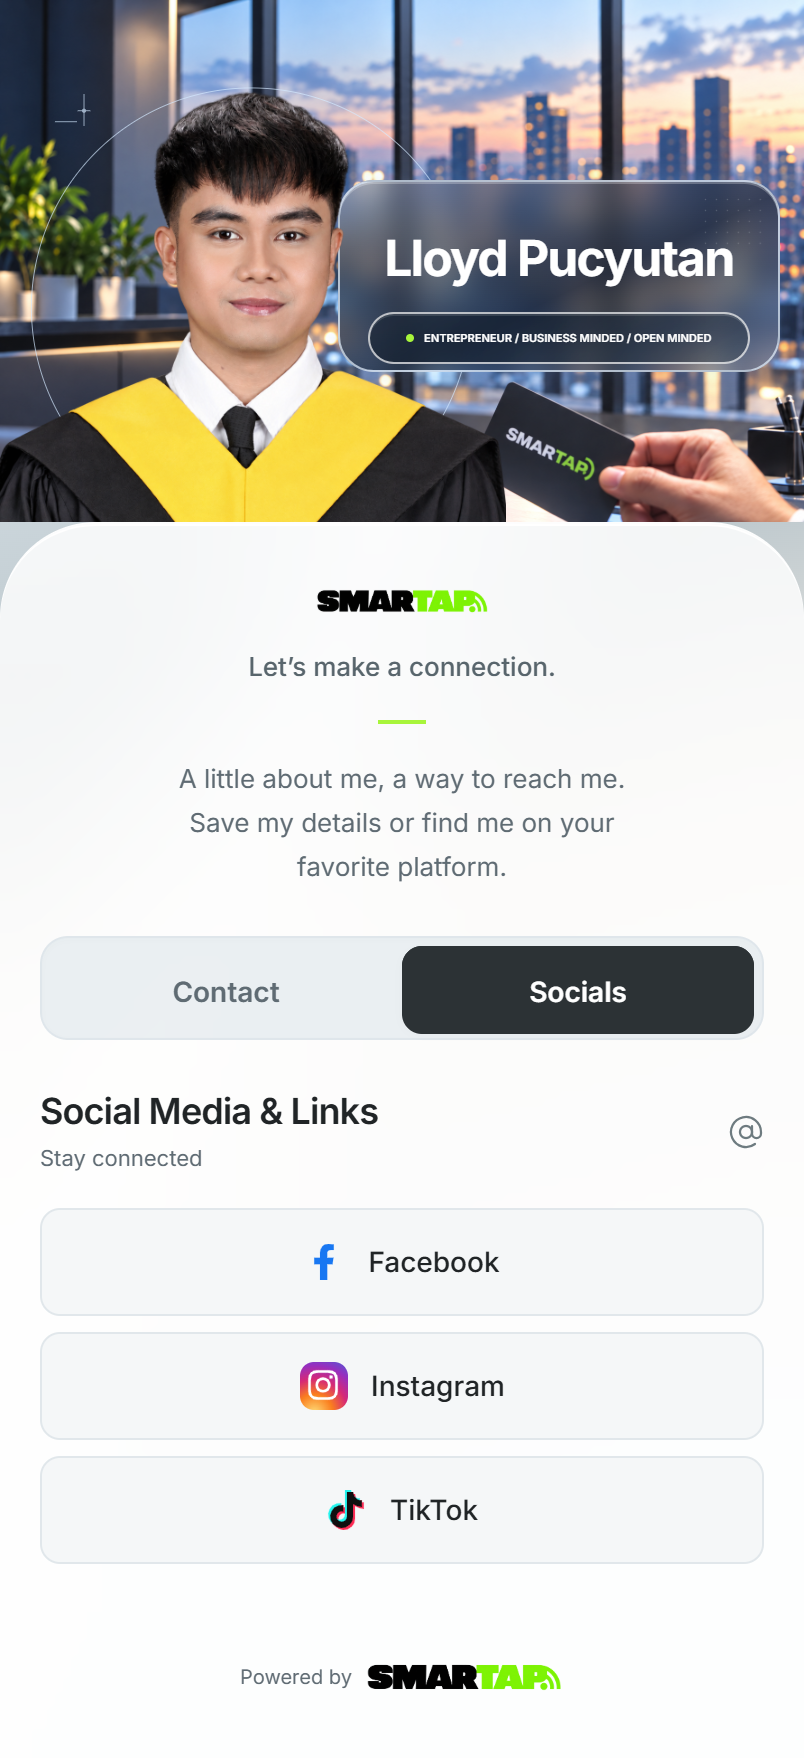
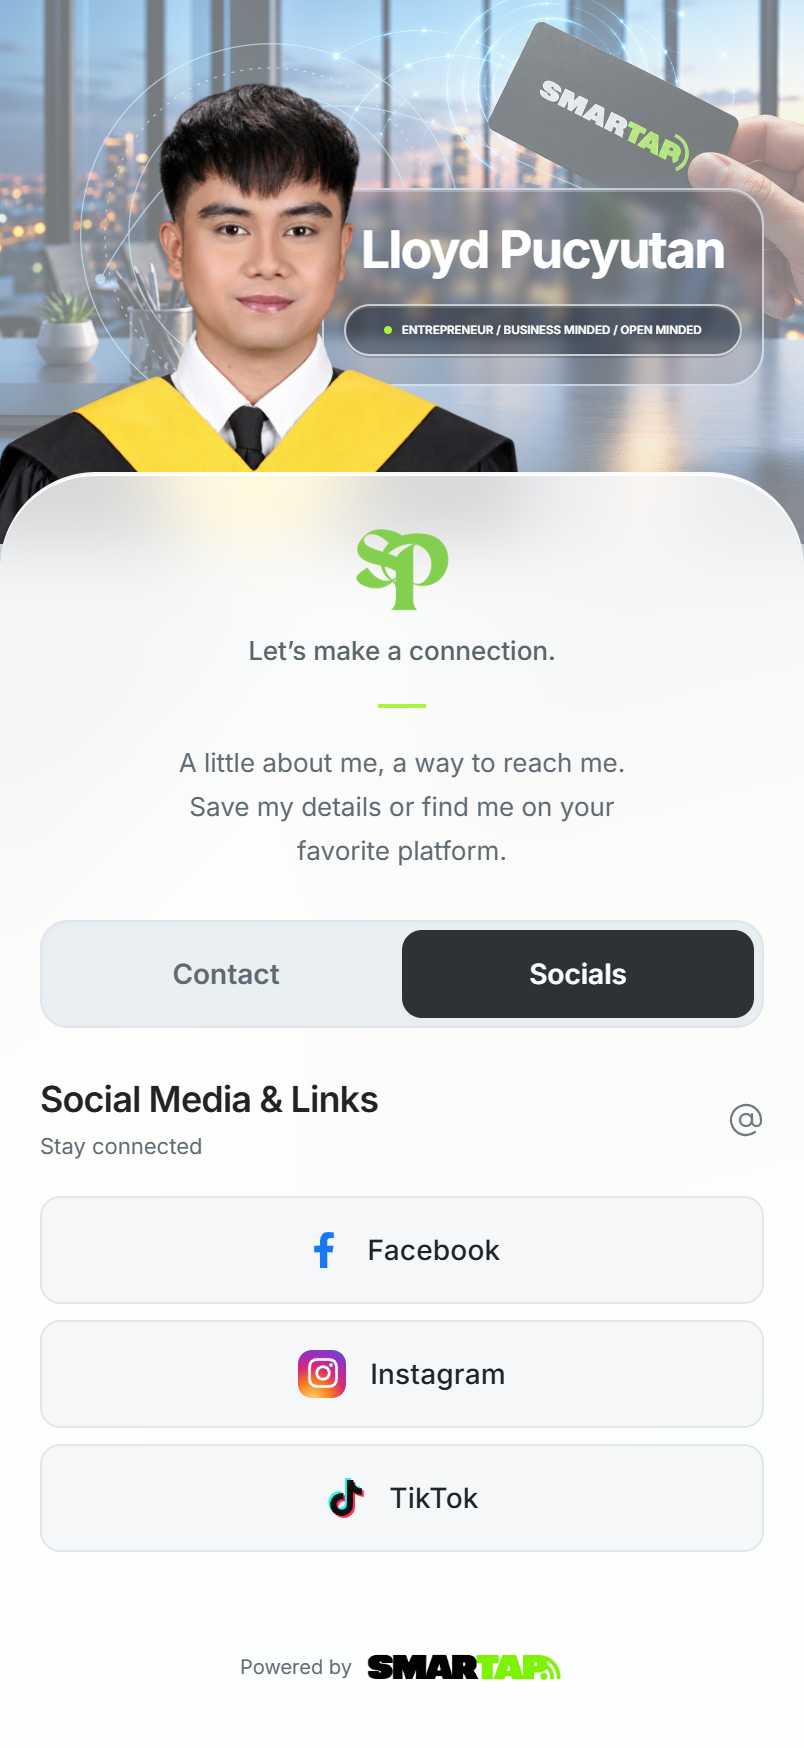
.

diff --git a/src/styles/global.css b/src/styles/global.css
@@ -1,5 +1,5 @@
-@import url('https://fonts.googleapis.com/css2?family=Inter:wght@400;500;600;700;800&display=swap');
-:root { font-family: Inter,system-ui,-apple-system,BlinkMacSystemFont,'Segoe UI',sans-serif; font-synthesis: none; color: #202426; background: #f5f7f8; --green: #282e31; --lime: #a8f53b; --mint: #e5f5cd; --muted: #5f6b73; --border: #e1e7eb; --glass: rgba(255,255,255,.82); }
+@import url('https://fonts.googleapis.com/css2?family=Inter:wght@400;500;600;700&display=swap');
+:root { font-family: Inter,system-ui,-apple-system,BlinkMacSystemFont,'Segoe UI',sans-serif; font-synthesis: none; color: #202426; background: #f5f7f8; --green: #282e31; --lime: #a8f53b; --muted: #5f6b73; --border: #e1e7eb; --glass: rgba(255,255,255,.82); }
 * { box-sizing: border-box; }
 body { margin: 0; min-width: 320px; min-height: 100svh; background: linear-gradient(115deg,transparent 25%,rgba(255,255,255,.7) 39%,transparent 56%),linear-gradient(165deg,#edf4f8 0px,#d7e1e7 170px,#bdc8cd 340px,#eeeae4 490px,#f5f7f8 780px); }
 a { color: inherit; text-decoration: none; }
@@ -7,22 +7,16 @@ button { font: inherit; cursor: pointer; }
 svg { flex-shrink: 0; }
 :focus-visible { outline: 3px solid var(--green); outline-offset: 4px; }
 .page { position: relative; width: 100%; max-width: 450px; margin: 0 auto; padding: 0 20px max(24px,env(safe-area-inset-bottom)); }
-.portrait-stage { position: relative; isolation: isolate; height: 328px; margin: 0 -20px; overflow: hidden; background: #edf2f4; }
+.portrait-stage { position: relative; isolation: isolate; aspect-ratio: 1017 / 687; margin: 0 -20px; overflow: hidden; background: #edf2f4; }
 .hero-background { position: absolute; z-index: -1; inset: 0; width: 100%; height: 100%; object-fit: cover; object-position: center; opacity: .5; pointer-events: none; }
-.portrait { position: absolute; display: block; width: 280px; max-width: calc(100% - 32px); height: 350px; object-fit: contain; object-position: top center; top: 24px; left: 45%; transform: translateX(-50%); mask-image: linear-gradient(#000 78%,transparent 98%); }
-.identity-label { position: absolute; bottom: 16px; left: 50%; transform: translateX(-50%); width: max-content; max-width: calc(100% - 32px); display: flex; align-items: center; gap: 8px; padding: 10px 14px; border: 1px solid rgba(255,255,255,.55); border-radius: 24px; background: rgba(44,50,53,.9); backdrop-filter: blur(12px); -webkit-backdrop-filter: blur(12px); color: #fff; font-size: 9px; line-height: 1.5; font-weight: 500; letter-spacing: .6px; text-align: center; box-shadow: 0 4px 16px #163d3210; }
-.identity-label span { width: 5px; height: 5px; flex-shrink: 0; border-radius: 50%; background: var(--lime); }
-.portrait-stage { height: auto; aspect-ratio: 1017 / 687; }
-.hero-background { object-position: center; opacity: .5; }
+.identity-label { display: flex; align-items: center; justify-content: center; gap: 5px; width: 100%; margin-top: 6%; padding: 4% 3%; border: 1px solid #ffffffb3; border-radius: 999px; background: #18212b55; backdrop-filter: blur(8px); -webkit-backdrop-filter: blur(8px); color: #fff; font-size: 2.9cqw; font-weight: 600; line-height: 1.5; white-space: nowrap; text-align: center; box-shadow: inset 0 1px 0 #ffffff20; }
+.identity-label span { width: 4px; height: 4px; flex-shrink: 0; border-radius: 50%; background: var(--lime); }
 .hero-signals { position: absolute; inset: 0; width: 100%; height: 100%; stroke: #d4f5ff; stroke-width: .8; opacity: .65; pointer-events: none; }
 .hero-signals circle:nth-child(2) { stroke-dasharray: 2 4; }
 .hero-panel-dots { position: absolute; width: 15%; height: auto; top: 6%; right: 3%; opacity: .18; pointer-events: none; }
-.hero-identity { position: absolute; z-index: 2; top: 34.5%; bottom: auto; right: 5%; width: 55%; height: auto; padding: 3.5% 2.5%; border: 1px solid #e5f2ffb3; border-radius: 18px; background: rgba(16,29,50,.18); backdrop-filter: blur(3px); -webkit-backdrop-filter: blur(3px); box-shadow: inset 0 1px 0 #ffffff40,0 0 12px #8bbaff25; }
-.hero-identity { container-type: inline-size; }
+.hero-identity { position: absolute; container-type: inline-size; z-index: 2; top: 34.5%; bottom: auto; right: 5%; width: 55%; height: auto; padding: 3.5% 2.5%; border: 1px solid #e5f2ffb3; border-radius: 18px; background: rgba(16,29,50,.18); backdrop-filter: blur(3px); -webkit-backdrop-filter: blur(3px); box-shadow: inset 0 1px 0 #ffffff40,0 0 12px #8bbaff25; }
 .hero-identity h1 { color: #fff; font-size: 13cqw; font-weight: 700; line-height: 1.2; letter-spacing: -.035em; white-space: nowrap; text-align: center; }
-.hero-identity .identity-label { color: #fff; margin-top: 6%; position: static; transform: none; width: 100%; max-width: none; padding: 4% 3%; border: 1px solid #ffffffb3; border-radius: 999px; background: #18212b55; backdrop-filter: blur(8px); -webkit-backdrop-filter: blur(8px); font-size: 2.9cqw; font-weight: 600; letter-spacing: 0; white-space: nowrap; gap: 5px; text-align: center; justify-content: center; text-shadow: none; box-shadow: inset 0 1px 0 #ffffff20; }
-.hero-identity .identity-label span { width: 4px; height: 4px; }
-.portrait-stage .portrait { z-index: 3; width: 65%; max-width: none; height: auto; left: 0; top: 8%; bottom: auto; transform: none; object-position: top center; mask-image: none; }
+.portrait { position: absolute; display: block; object-fit: contain; z-index: 3; width: 65%; max-width: none; height: auto; left: 0; top: 8%; bottom: auto; transform: none; object-position: top center; mask-image: none; }
 .profile-surface { position: relative; z-index: 4; margin-top: -36px; background: var(--glass); backdrop-filter: blur(16px); -webkit-backdrop-filter: blur(16px); border: 1px solid rgba(255,255,255,.75); border-radius: 48px 48px 28px 28px; padding: 24px 20px; box-shadow: inset 0 1px 0 #fff,0 8px 28px #163d3207; }
 .profile-copy { text-align: center; }
 .profile-wordmark { display: block; width: 48px; max-width: 100%; height: auto; margin: 0 auto; }
@@ -31,7 +25,7 @@ h1 { margin: 0; font-size: 30px; font-weight: 700; line-height: 1.2; letter-spac
 .profile-divider { width: 24px; height: 2px; background: var(--lime); margin: 16px auto; }
 .profile-description { max-width: 306px; margin: 0 auto; font-size: 13px; line-height: 1.7; color: var(--muted); text-wrap: pretty; }
 .profile-actions { margin-top: 24px; }
-.segmented-control { position: relative; display: grid; grid-template-columns: 1fr 1fr; height: 52px; padding: 4px; margin-bottom: 24px; border: 1px solid #dfe6eb; border-radius: 14px; background: rgba(222,230,235,.62); box-shadow: inset 0 1px 3px #163d3204; }
+.segmented-control { position: relative; display: grid; grid-template-columns: 1fr 1fr; height: 54px; padding: 4px; margin-bottom: 24px; border: 1px solid #dfe6eb; border-radius: 14px; background: rgba(222,230,235,.62); box-shadow: inset 0 1px 3px #163d3204; }
 .segmented-control button { position: relative; z-index: 1; min-height: 44px; padding: 0; border: 0; border-radius: 10px; background: transparent; font-size: 14px; font-weight: 600; color: var(--muted); transition: color 200ms ease,background-color 200ms ease; }
 .segmented-control button[aria-selected=true] { color: #fff; }
 .segmented-control button:active { background: #2C3235; color: #fff; }
@@ -41,27 +35,16 @@ h1 { margin: 0; font-size: 30px; font-weight: 700; line-height: 1.2; letter-spac
 .section-heading > svg { color: #6e7b80; stroke-width: 1.5; }
 h2 { margin: 0 0 4px; font-size: 18px; font-weight: 600; letter-spacing: -.45px; line-height: 1.3; }
 .section-heading p { margin: 0; color: var(--muted); font-size: 11px; line-height: 1.5; }
-.action-list { display: grid; gap: 8px; width: 88%; margin-inline: auto; }
-.action-row { position: relative; display: flex; align-items: center; justify-content: center; gap: 10px; width: 100%; min-height: 54px; padding: 10px 18px; border: 1px solid var(--border); border-radius: 10px; background: #f5f7f8; box-shadow: none; color: #202426; text-align: center; transition: background-color 180ms ease,border-color 180ms ease,box-shadow 180ms ease,transform 180ms ease; }
+.action-list { display: grid; gap: 8px; width: 100%; margin-inline: auto; }
+.action-row { position: relative; display: flex; align-items: center; justify-content: center; gap: 12px; width: 100%; min-height: 54px; padding: 10px 40px; border: 1px solid var(--border); border-radius: 10px; background: #f5f7f8; box-shadow: none; color: #202426; text-align: center; transition: background-color 180ms ease,border-color 180ms ease,color 180ms ease; }
 .action-icon { display: grid; place-items: center; width: 20px; height: 20px; flex-shrink: 0; color: var(--green); }
 .action-icon svg { width: 18px; height: 18px; stroke-width: 1.6; }
-.action-label { min-width: 0; font-size: 14px; font-weight: 500; line-height: 1.4; text-align: center; }
-.action-primary { background: #282e31; border-color: #3b4449; color: #fff; box-shadow: none; }
-.action-primary .action-icon { color: var(--lime); }
+.action-label { min-width: 0; font-size: 14px; font-weight: 500; letter-spacing: .1px; line-height: 1.4; text-align: center; }
+.action-primary { background: #2c3235; border-color: rgba(255,255,255,.08); color: #fff; box-shadow: none; }
+.action-primary .action-icon { color: #b2e775; }
 .action-primary .action-label { font-weight: 600; }
-.actions-panel .action-row { min-height: 54px; gap: 10px; border-radius: 10px; box-shadow: none; }
-.actions-panel .action-primary { background: #2c3235; border-color: rgba(255,255,255,.08); color: #f5f7f8; }
-.actions-panel .action-icon { width: 20px; height: 20px; }
-.actions-panel .action-primary .action-icon { color: #b2e775; }
-.actions-panel .action-icon svg { width: 18px; height: 18px; stroke-width: 1.6; }
-.actions-panel .action-label { font-size: 14px; font-weight: 500; letter-spacing: .1px; }
-.actions-panel .action-list { width: 100%; }
-.actions-panel .action-row { justify-content: center; gap: 12px; padding-inline: 40px; }
-.actions-panel .action-label { text-align: center; }
-.actions-panel .action-primary { justify-content: center; min-height: 54px; }
 .action-group { margin-top: 24px; }
 .action-group-title { margin: 0 0 12px; color: var(--muted); font-size: 11px; font-weight: 600; line-height: 1.5; text-transform: uppercase; letter-spacing: .3px; }
-.social-panel .action-list { width: 100%; }
 .social-row { min-height: 54px; padding-inline: 40px; gap: 12px; }
 .social-icon.facebook { color: #1877f2; }
 .social-icon.instagram { width: 24px; height: 24px; color: #fff; border-radius: 7px; background: radial-gradient(circle at 30% 105%,#feda75 0%,#fa7e1e 30%,#d62976 55%,#962fbf 78%,#4f5bd5 100%); }
@@ -69,13 +52,11 @@ h2 { margin: 0 0 4px; font-size: 18px; font-weight: 600; letter-spacing: -.45px;
 .social-icon.tiktok { color: #101010; }
 .social-icon.tiktok svg { filter: drop-shadow(-1px -1px 0 #25f4ee) drop-shadow(1px 1px 0 #fe2c55); }
 .action-row:active { background: #2C3235; border-color: #2C3235; color: #fff; box-shadow: none; }
-.action-primary:active, .actions-panel .action-primary:active { background: #2C3235; border-color: #2C3235; color: #fff; box-shadow: none; }
 .action-row:not(.action-primary):active:not(:disabled) .action-icon:not(.social-icon) { color: #fff; }
 .social-row:active .social-icon.tiktok { color: #fff; }
 .action-row:focus-visible { outline-color: #2C3235; }
 .action-row:disabled { color: var(--muted); cursor: not-allowed; background: #f1f4f5; }
 .powered-by { display: flex; align-items: center; flex-direction: column; gap: 6px; margin-top: 20px; color: #5f6b73; font-size: 10px; line-height: 1.5; }
-.powered-by span { font-size: 10px; }
 .footer-brand { display: flex; align-items: center; gap: 6px; }
 .footer-brand img { display: block; width: 100px; height: auto; object-fit: contain; }
 .sr-only { position: absolute; width: 1px; height: 1px; padding: 0; margin: -1px; overflow: hidden; clip: rect(0,0,0,0); white-space: nowrap; border: 0; }
@@ -91,7 +72,3 @@ h2 { margin: 0 0 4px; font-size: 18px; font-weight: 600; letter-spacing: -.45px;
   .powered-by { margin-top: 0; padding: 16px 20px max(24px,env(safe-area-inset-bottom)); background: var(--glass); backdrop-filter: blur(16px); -webkit-backdrop-filter: blur(16px); }
 }
 @media (prefers-reduced-motion:reduce) { *,*::before,*::after { transition: none !important; } }
-
-
-
-

diff --git a/src/components/QuickActions.jsx b/src/components/QuickActions.jsx
@@ -16,8 +16,15 @@ function ActionButton({ icon: Icon, label, href, onClick, primary, external }) {
   </Tag>;
 }
 export default function QuickActions() {
-  const [saved, setSaved] = useState(false);
-  function download() { saveContact(); setSaved(true); }
+  const [feedback, setFeedback] = useState({ count: 0, message: '' });
+  function download() {
+    try {
+      saveContact();
+      setFeedback(previous => ({ count: previous.count + 1, message: 'Contact file ready. Open the downloaded file to add Lloyd to your contacts.' }));
+    } catch {
+      setFeedback(previous => ({ count: previous.count + 1, message: 'Unable to download the contact file. Please try again.' }));
+    }
+  }
   return <section className="actions-panel" aria-labelledby="actions-title">
     <SectionHeader title="Quick Actions" subtitle="Connect Instantly" id="actions-title"><Zap size={19} aria-hidden="true" /></SectionHeader>
     <ActionButton icon={UserPlus} label="Save Contact" onClick={download} primary />
@@ -29,7 +36,7 @@ export default function QuickActions() {
       <h3 className="action-group-title" id="location-title">Location</h3>
       <div className="action-list"><ActionButton label="Google Maps" icon={MapPin} href={mapsUrl} external /></div>
     </div>
-    <span className="sr-only" role="status">{saved ? 'Contact file downloaded. Open the file to add Lloyd to your contacts.' : ''}</span>
+    <span className="sr-only" role="status" aria-live="polite" aria-atomic="true"><span key={feedback.count}>{feedback.message}</span></span>
   </section>;
 }
 

diff --git a/src/App.jsx b/src/App.jsx
@@ -29,8 +29,8 @@ export default function App() {
             <span className={`tab-indicator ${tab}`} aria-hidden="true" />
             {['contact', 'socials'].map(value => <button key={value} ref={element => { refs.current[value] = element; }} id={`${value}-tab`} type="button" role="tab" aria-selected={tab === value} aria-controls={`${value}-panel`} tabIndex={tab === value ? 0 : -1} onClick={() => setTab(value)}>{value === 'contact' ? 'Contact' : 'Socials'}</button>)}
           </div>
-          <div id="contact-panel" role="tabpanel" aria-labelledby="contact-tab" hidden={tab !== 'contact'}><QuickActions /></div>
-          <div id="socials-panel" role="tabpanel" aria-labelledby="socials-tab" hidden={tab !== 'socials'}><SocialLinks /></div>
+          <div id="contact-panel" role="tabpanel" aria-labelledby="contact-tab" tabIndex={0} hidden={tab !== 'contact'}><QuickActions /></div>
+          <div id="socials-panel" role="tabpanel" aria-labelledby="socials-tab" tabIndex={0} hidden={tab !== 'socials'}><SocialLinks /></div>
         </div>
       </div>
     </main>

diff --git a/src/profile.js b/src/profile.js
@@ -15,7 +15,7 @@ export const profile = {
 export const mapsUrl = `https://www.google.com/maps/search/?api=1&query=${encodeURIComponent(profile.mapsLocation)}`;
 
 function escapeVCard(value) {
-  return value.replace(/\\/g, '\\\\').replace(/\n/g, '\\n').replace(/;/g, '\\;').replace(/,/g, '\\,');
+  return value.replace(/\\/g, '\\\\').replace(/\r\n|\r|\n/g, '\\n').replace(/;/g, '\\;').replace(/,/g, '\\,');
 }
 export function saveContact() {
   const contact = [
@@ -29,8 +29,11 @@ export function saveContact() {
   link.href = url;
   link.download = 'Lloyd-Pucyutan.vcf';
   document.body.appendChild(link);
-  link.click();
-  link.remove();
-  setTimeout(() => URL.revokeObjectURL(url), 1000);
+  try {
+    link.click();
+  } finally {
+    link.remove();
+    setTimeout(() => URL.revokeObjectURL(url), 10000);
+  }
 }
 

diff --git a/README.md b/README.md
@@ -1,16 +1,17 @@
 # SMARTAP
 
-A mobile-first digital business card built with React and Vite. The redesign retains Lloyd Pucyutan’s supplied portrait and verified destinations, with a reference-inspired silver-blue, frosted white, charcoal, and lime palette, restrained NFC linework, one frosted glass surface, and accessible Contact / Socials tabs. Mobile cards extend to both sides and the bottom; All action buttons use centered icon-label groups without trailing arrows. Social buttons show centered platform icons and labels, with the same dimensions as contact buttons.
+React and Vite digital business card for Lloyd Pucyutan. The current design includes the supplied graduation portrait, a 50% opacity NFC office background, compact glass identity panel, SMARTAP monogram, accessible Contact / Socials tabs, and centered action buttons without hover effects or arrows.
 
-```sh
-npm install
-npm run dev
-```
+## Development
 
-Production build: `npm run build`. Preview: `npm run preview`.
+Run `npm ci`, then `npm run dev`. Build with `npm run build`; inspect the production output with `npm run preview`. Deploy the generated `dist` directory to a static host at the domain root.
 
-Contact details and social destinations are configured in `src/profile.js`. Save Contact downloads a vCard; Call, SMS, and Email use device handlers. Messenger, Google Maps, Facebook, Instagram, and TikTok open the existing verified destinations. Tabs support arrow keys, Home, and End; focus indicators and reduced-motion preferences are supported.
+Contact data and social destinations are configured in `src/profile.js`. Save Contact downloads a vCard and keeps its label unchanged. It announces download initiation or failure to assistive technology. Call, SMS, and Email use device handlers. External links open in a new tab with safe link attributes.
 
-The portrait is the original `public/profile-cutout.png`, without facial edits. Interface text, NFC paths, and controls are rendered in HTML, CSS, and SVG. Inter loads from Google Fonts with system fonts as fallback. No unverified professional roles or accounts have been added.
+## Verification
 
-Browser verification: `node scripts/verify-ui.mjs` (requires Playwright and installed Chrome). It checks responsive widths, exclusive tab panels, keyboard navigation, contact download, and reduced motion, and saves mobile previews in `artifacts/`.
+Run `npm test` with Google Chrome installed. Playwright is declared as a development dependency. The checks cover nine screen widths, hero proportions, image loading, clipping, contact and social links, keyboard tab navigation, vCard contents, error handling, unchanged Save Contact labeling, absent hover effects, and reduced motion. Updated previews are written to `artifacts/`.
+
+The app uses the existing `public/profile-cutout.png`, `public/smartap-nfc-connection-dusk.png`, `public/smartap-monogram.png`, and `public/smartap-wordmark.png` assets. Other image files are retained as design references. Inter loads from Google Fonts with system font fallback.
+
+The compact single-line hero tagline intentionally follows the requested design; it is very small on narrow phones. Automated browser checks cannot verify native phone/SMS handlers or whether third-party accounts remain available. Verify those on a real phone before launch.
